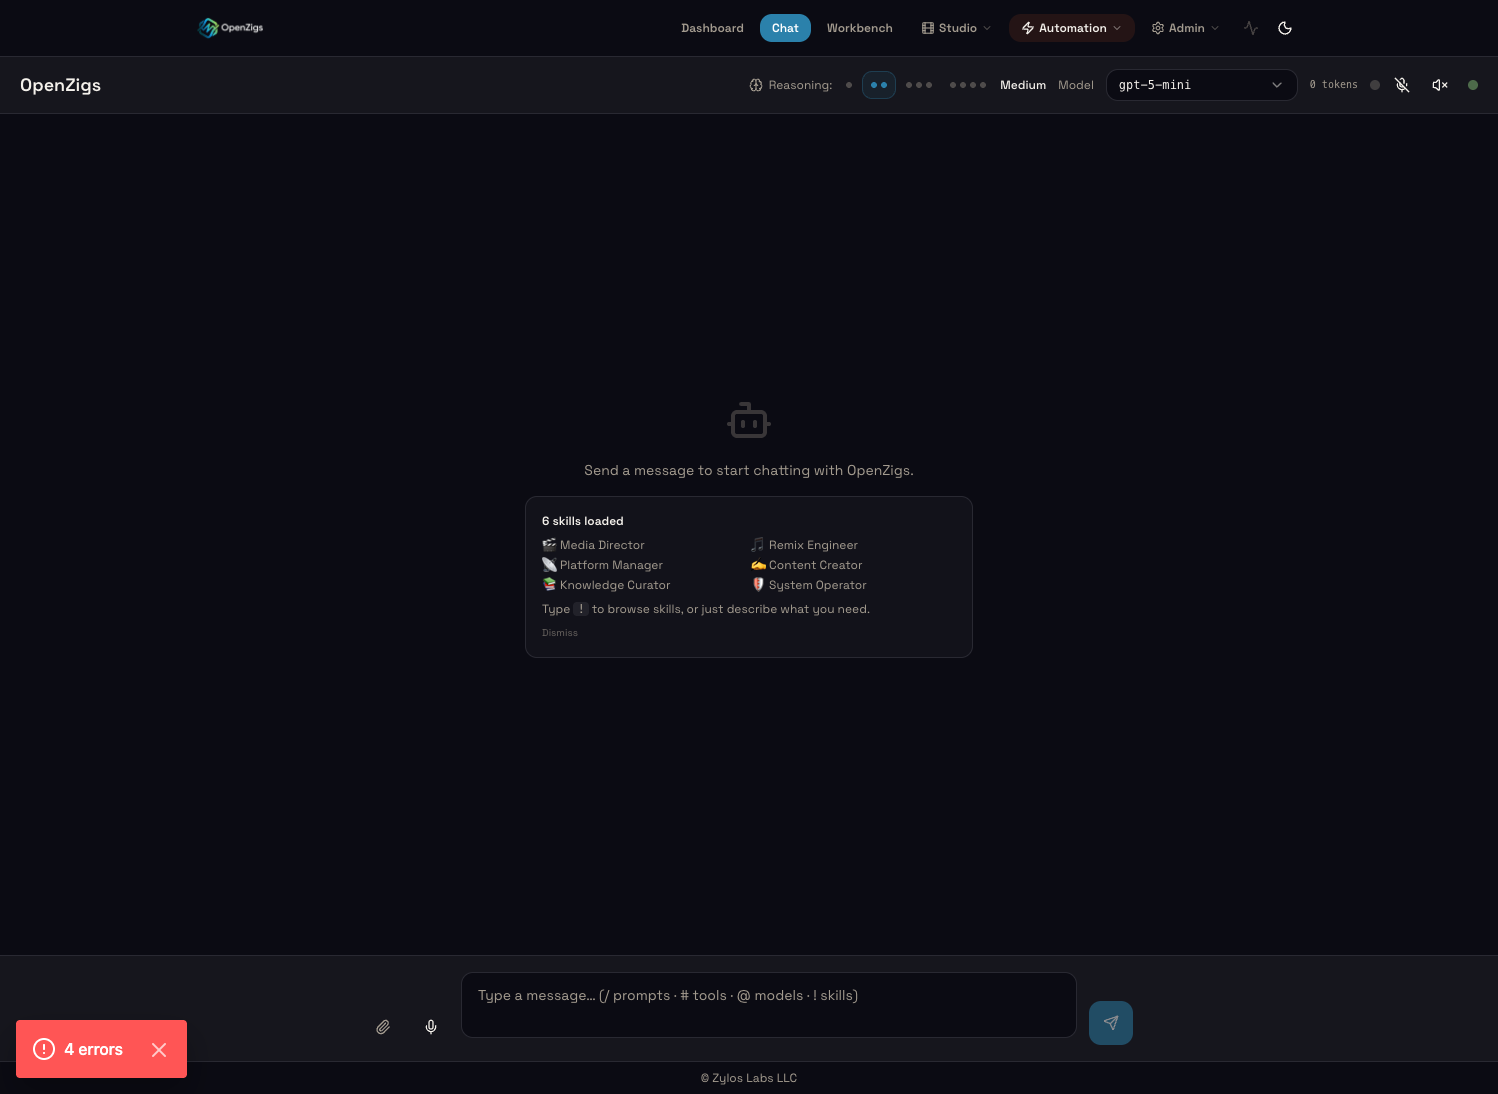
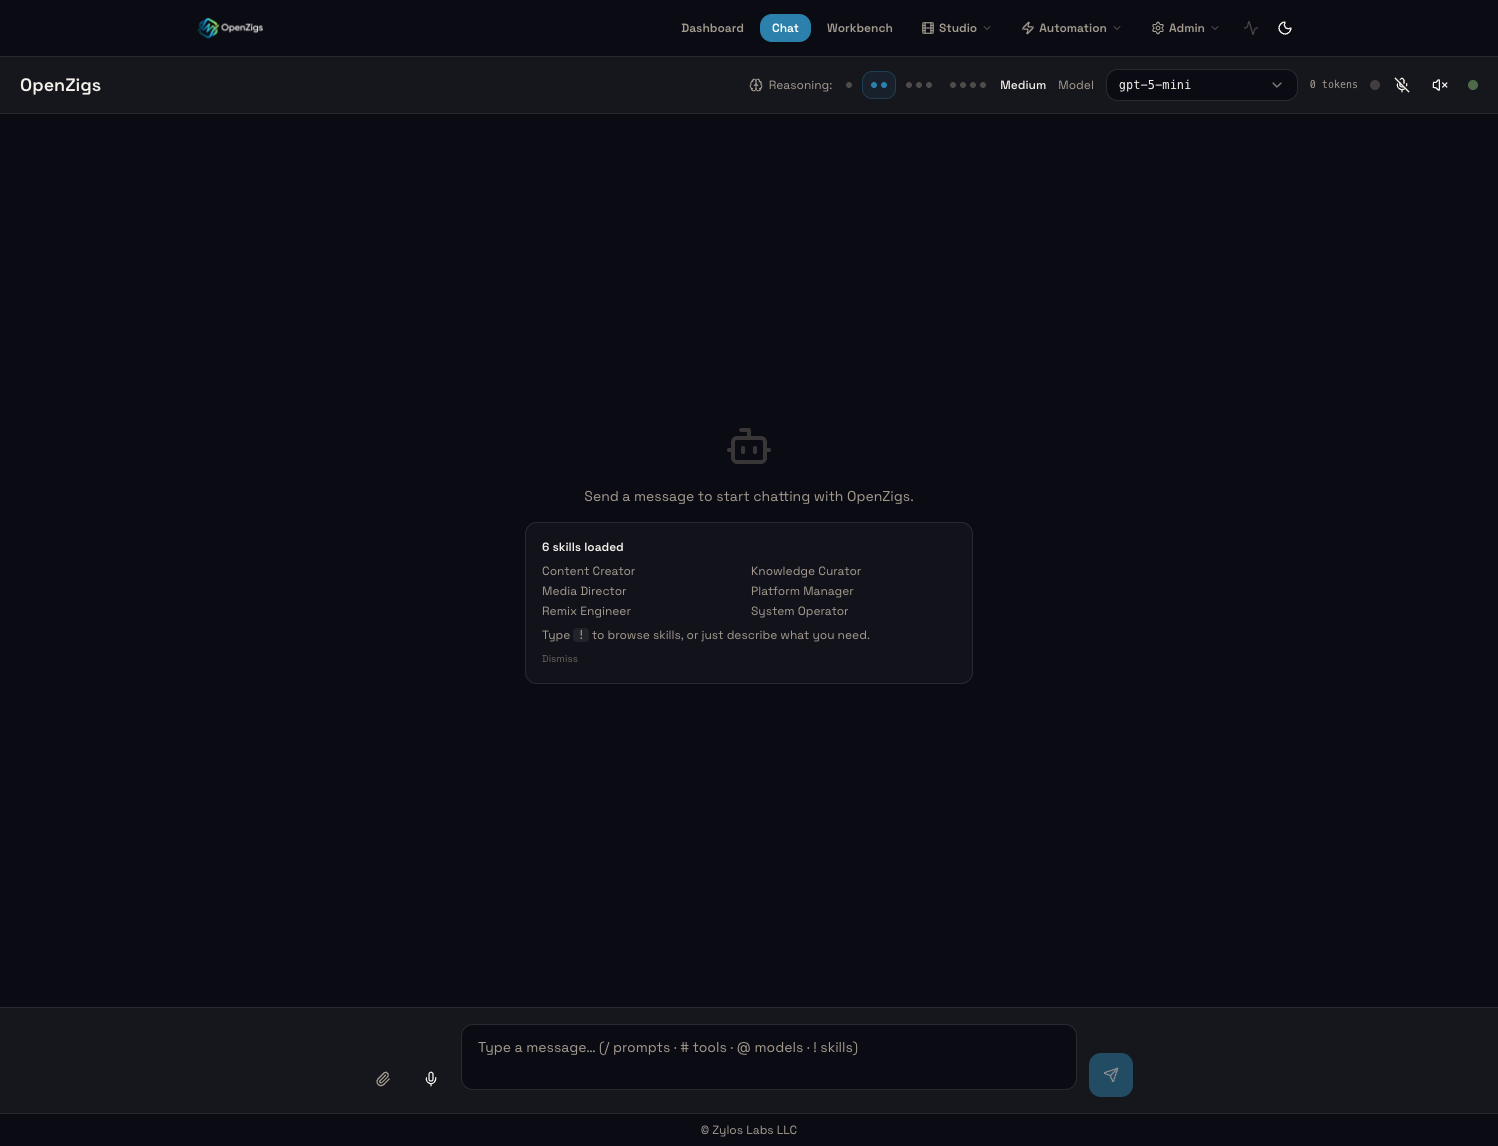
fix: resolve hydration errors, wire skills API to UI, add skillDirectories to server
- Fix SSR hydration mismatch by deferring localStorage read to useEffect
- Add skills fetch to chat-view.tsx and pass skills prop to SmartTextarea
- Use fetchJson (with auth token) instead of bare fetch in skills page
- Auto-discover SKILL.md directories in server.ts and pass to CopilotWrapper
- Banner now renders dynamically from API data instead of hardcoded names
- Updated screenshots with working skills UI

Made-with: Cursor

diff --git a/ui/components/chat-view.tsx b/ui/components/chat-view.tsx
@@ -24,7 +24,7 @@ import {
 } from "@/components/ui/dialog";
 import { Send, Loader2, Bot, User, AlertCircle, Trash2 } from "lucide-react";
 import { ChatMarkdown } from "@/components/chat-markdown";
-import { SmartTextarea } from "@/components/smart-textarea";
+import { SmartTextarea, type SkillInfo } from "@/components/smart-textarea";
 import { FileAttachmentButton, FileDropZone, AttachmentBar } from "@/components/file-attachment";
 import { VoiceMicButton } from "@/components/voice/voice-mic-button";
 import { ReasoningEffortSelector, ProviderBadge } from "@/components/reasoning-effort-selector";
@@ -74,6 +74,8 @@ export const ChatView = () => {
   const [fallbackWarning, setFallbackWarning] = useState(false);
   const [tools, setTools] = useState<ToolInfo[]>([]);
   const [prompts, setPrompts] = useState<SavedPrompt[]>([]);
+  const [skills, setSkills] = useState<SkillInfo[]>([]);
+  const [bannerDismissed, setBannerDismissed] = useState(true);
   const [history, setHistory] = useState<string[]>([]);
   const [historyIndex, setHistoryIndex] = useState(-1);
   const [draftInput, setDraftInput] = useState("");
@@ -199,8 +201,22 @@ export const ChatView = () => {
         // Prompts not available
       }
     };
+    const loadSkills = async () => {
+      try {
+        const data = await fetchJson<{ skills: SkillInfo[] }>("/api/admin/skills");
+        setSkills(data.skills ?? []);
+      } catch {
+        // Skills not available
+      }
+    };
     void loadTools();
     void loadPrompts();
+    void loadSkills();
+  }, []);
+
+  // Read banner-dismissed from localStorage after mount (avoids SSR hydration mismatch)
+  useEffect(() => {
+    setBannerDismissed(localStorage.getItem("openzigs:skills-onboarded") === "true");
   }, []);
 
   // Socket events
@@ -613,16 +629,13 @@ export const ChatView = () => {
           <div className="flex flex-1 flex-col items-center justify-center gap-4 text-muted-foreground">
             <Bot className="h-12 w-12 opacity-30" />
             <p className="text-sm">Send a message to start chatting with OpenZigs.</p>
-            {typeof window !== "undefined" && !localStorage.getItem("openzigs:skills-onboarded") && (
+            {!bannerDismissed && skills.length > 0 && (
               <div className="w-full max-w-md rounded-xl border border-border bg-muted/30 p-4 text-xs">
-                <p className="mb-2 font-semibold text-foreground">6 skills loaded</p>
+                <p className="mb-2 font-semibold text-foreground">{skills.length} skill{skills.length !== 1 ? "s" : ""} loaded</p>
                 <div className="grid grid-cols-2 gap-1 text-muted-foreground">
-                  <span>🎬 Media Director</span>
-                  <span>🎵 Remix Engineer</span>
-                  <span>📡 Platform Manager</span>
-                  <span>✍ Content Creator</span>
-                  <span>📚 Knowledge Curator</span>
-                  <span>🛡 System Operator</span>
+                  {skills.map((s) => (
+                    <span key={s.name}>{s.displayName}</span>
+                  ))}
                 </div>
                 <p className="mt-2 text-muted-foreground">
                   Type <code className="rounded bg-muted px-1">!</code> to browse skills, or just describe what you need.
@@ -632,7 +645,7 @@ export const ChatView = () => {
                   className="mt-2 text-[10px] text-muted-foreground/60 hover:text-muted-foreground"
                   onClick={() => {
                     localStorage.setItem("openzigs:skills-onboarded", "true");
-                    window.location.reload();
+                    setBannerDismissed(true);
                   }}
                 >
                   Dismiss
@@ -771,6 +784,7 @@ export const ChatView = () => {
               tools={tools}
               prompts={prompts}
               models={models}
+              skills={skills}
               placeholder={
                 !connected
                   ? "Connecting…"

diff --git a/src/server.ts b/src/server.ts
@@ -322,6 +322,29 @@ const getDisabledNativeMcpToolNames = (): Set<string> => {
   return disabled;
 };
 
+// Discover skill directories — each subdirectory of src/skills/ that contains a SKILL.md
+const resolvedSkillDirectories: string[] = [];
+try {
+  const skillsRoot = path.resolve(process.cwd(), "src", "skills");
+  const entries = await fs.readdir(skillsRoot, { withFileTypes: true });
+  for (const entry of entries) {
+    if (entry.isDirectory()) {
+      const skillMdPath = path.join(skillsRoot, entry.name, "SKILL.md");
+      try {
+        await fs.access(skillMdPath);
+        resolvedSkillDirectories.push(path.join(skillsRoot, entry.name));
+      } catch {
+        // No SKILL.md in this directory — skip
+      }
+    }
+  }
+  if (resolvedSkillDirectories.length > 0) {
+    logger.info(`Loaded ${resolvedSkillDirectories.length} skill directories`);
+  }
+} catch {
+  // src/skills/ doesn't exist — no skills configured
+}
+
 const copilot = new CopilotWrapperService({
   toolRegistry,
   maxToolsPerRequest: config.session?.maxToolsPerRequest ?? 30,
@@ -332,6 +355,7 @@ const copilot = new CopilotWrapperService({
   defaultWorkingDirectory: config.copilot?.defaultWorkingDirectory ?? undefined,
   customAgents: resolvedCustomAgents,
   nativeMcpServers: resolvedNativeMcpServers,
+  skillDirectories: resolvedSkillDirectories,
 });
 copilotRef = copilot;
 

diff --git a/ui/app/skills/page.tsx b/ui/app/skills/page.tsx
@@ -2,6 +2,7 @@
 
 import { useEffect, useState } from "react";
 import { useRouter } from "next/navigation";
+import { fetchJson } from "@/lib/api";
 import {
   Film, Music, Radio, PenTool, BookOpen, Shield,
   ChevronDown, ChevronRight, ExternalLink, Sparkles,
@@ -148,8 +149,7 @@ export default function SkillsPage() {
   const router = useRouter();
 
   useEffect(() => {
-    fetch("/api/admin/skills")
-      .then((res) => res.json())
+    fetchJson<{ skills: SkillMetadata[] }>("/api/admin/skills")
       .then((data) => {
         setSkills(data.skills ?? []);
         setLoading(false);
